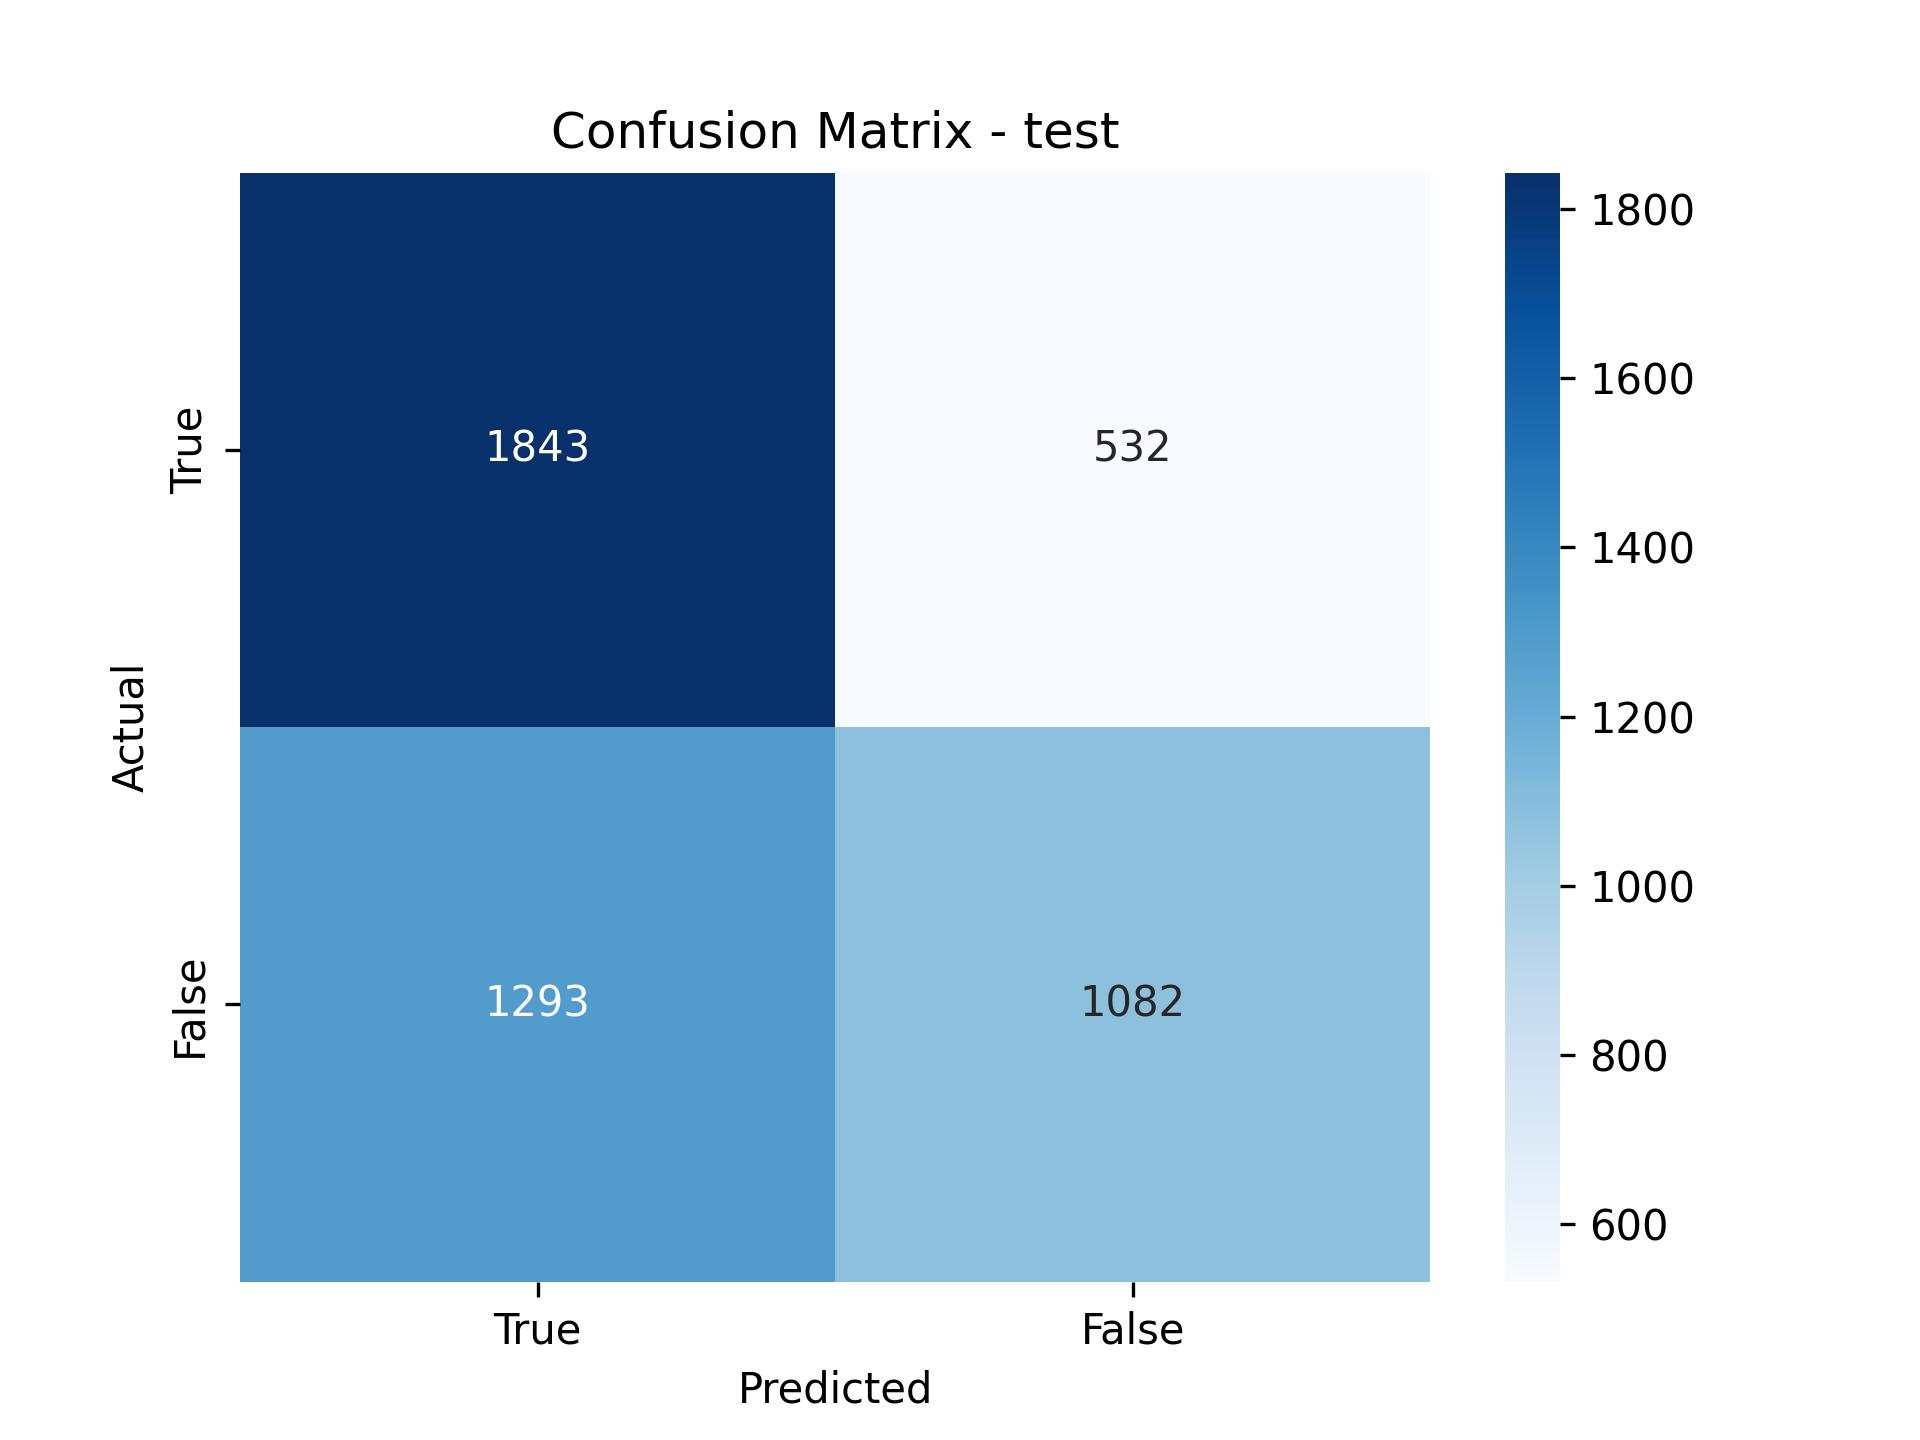
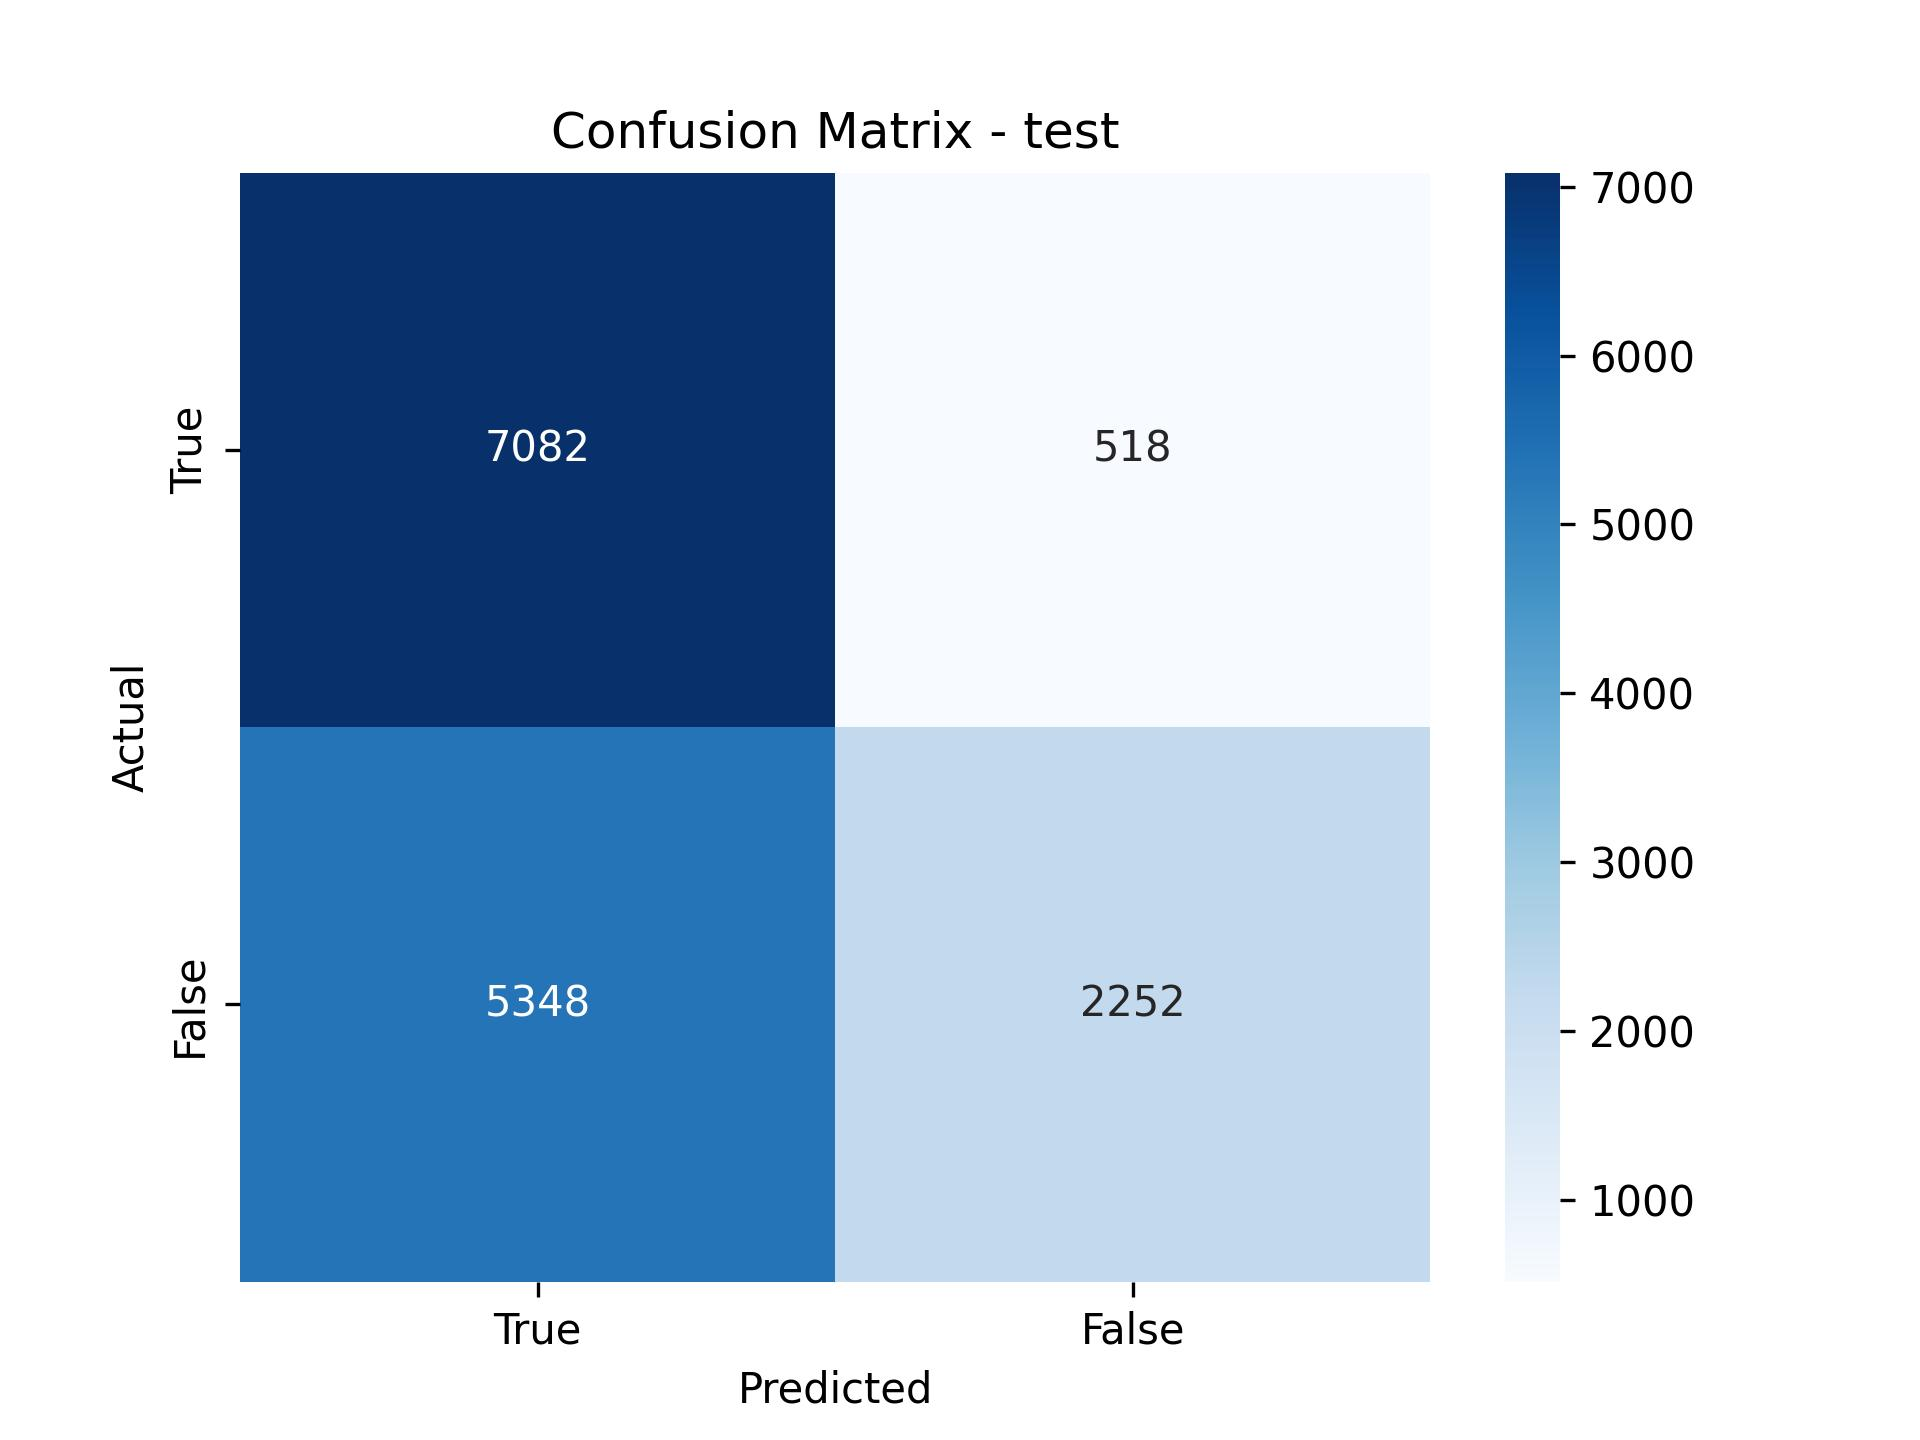
add cross entropy and normalization.

diff --git a/src/training/model.py b/src/training/model.py
@@ -1,7 +1,8 @@
 import numpy as np
 from tqdm import tqdm
 import torch
-from torch.nn.functional import softmax, cross_entropy
+from torch.nn import CrossEntropyLoss
+from torch.nn.functional import softmax, cross_entropy, one_hot
 
 from .utils import *
 from .data_loader import DataLoader
@@ -10,6 +11,7 @@ from .lenet_architecture import Net
 
 MODEL_PATH = "../../models/"
 MODEL_NAME = "baseline_resnet.pth"
+EPSILON = 0.00000000000001
 
 
 class Model:
@@ -22,6 +24,7 @@ class Model:
 
         # put the network in eval mode
         self.model.eval()
+        self.loss_fn = CrossEntropyLoss()
 
     def predict(self, images):
         """
@@ -40,9 +43,9 @@ class Model:
             # convert tensor to numpy array
             y_pred = y_pred[0].cpu().detach()
 
-            # y_pred_prob = softmax(y_pred)
+            y_pred_prob = softmax(y_pred, dim=0)
 
-            y_pred_prob = y_pred.numpy().tolist()
+            y_pred_prob = y_pred_prob.numpy().tolist()
 
             # convert logits to probabilities
 
@@ -52,14 +55,16 @@ class Model:
         return predicted_prob
 
     def get_loss(self, predicted, labels):
-        predicted = torch.tensor(predicted)  # 2500, 10
-        labels = torch.tensor(labels).reshape().float()  # 2500, 1
-        # print(labels.shape, predicted.shape)
-        return -torch.sum(labels * torch.log(predicted))
+        predicted = torch.tensor(predicted)
+        labels = one_hot(torch.tensor(labels), num_classes=10).squeeze(dim=1)
+        log_loss = torch.log(predicted + EPSILON)
+        loss = labels * log_loss
+        loss = -torch.sum(loss, dim=-1)
+        numpy_output = loss.detach().cpu().numpy()
+        return numpy_output
 
-    def normalize(self, images, labels):
-        value = self.get_loss(images, labels)
-        return np.log(value / (1 - value))
+    def normalize(self, loss):
+        return np.log(loss / (1 - loss) + EPSILON)
 
 
 if __name__ == "__main__":

diff --git a/src/gaussian_analysis/gaussian_analysis.py b/src/gaussian_analysis/gaussian_analysis.py
@@ -19,10 +19,8 @@ class GaussianAnalysis:
         known_prob = self.model.predict(known)
         unknown_prob = self.model.predict(unknown)
 
-        print(test_known.shape)
-
-        known_loss_array = [self.model.get_loss(known_prob, test_known)]
-        unknown_loss_array = [self.model.get_loss(unknown_prob, test_unknown)]
+        known_loss_array = self.model.get_loss(known_prob, test_known)
+        unknown_loss_array = self.model.get_loss(unknown_prob, test_unknown)
 
         return known_loss_array, unknown_loss_array
 
@@ -60,6 +58,7 @@ class GaussianAnalysis:
         Input: Loss array
         Output: mean, standard deviation
         """
+        print(data.shape)
         if not self.check_normal_distribution(data):
             # raise Exception("Not normally distributed!")
             print("warning")

diff --git a/src/membership_inference/membership_inference.py b/src/membership_inference/membership_inference.py
@@ -36,7 +36,9 @@ class MembershipPredictor:
         return (result > 1).astype(int)
 
     def get_loss(self, sample: np.ndarray, y: np.ndarray):
-        return self.model.get_loss(sample, y)
+        print(sample.shape, y.shape)
+        model_output = self.model.predict(sample)
+        return self.model.get_loss(model_output, y)
 
 
 if __name__ == "__main__":

diff --git a/src/tool.py b/src/tool.py
@@ -206,4 +206,4 @@ models = [
     "/baseline_resnet_10_epochs.pth",
     "/baseline_lenet.pth",
 ]
-evaluate(5, models[3])
+evaluate(16, models[3])
